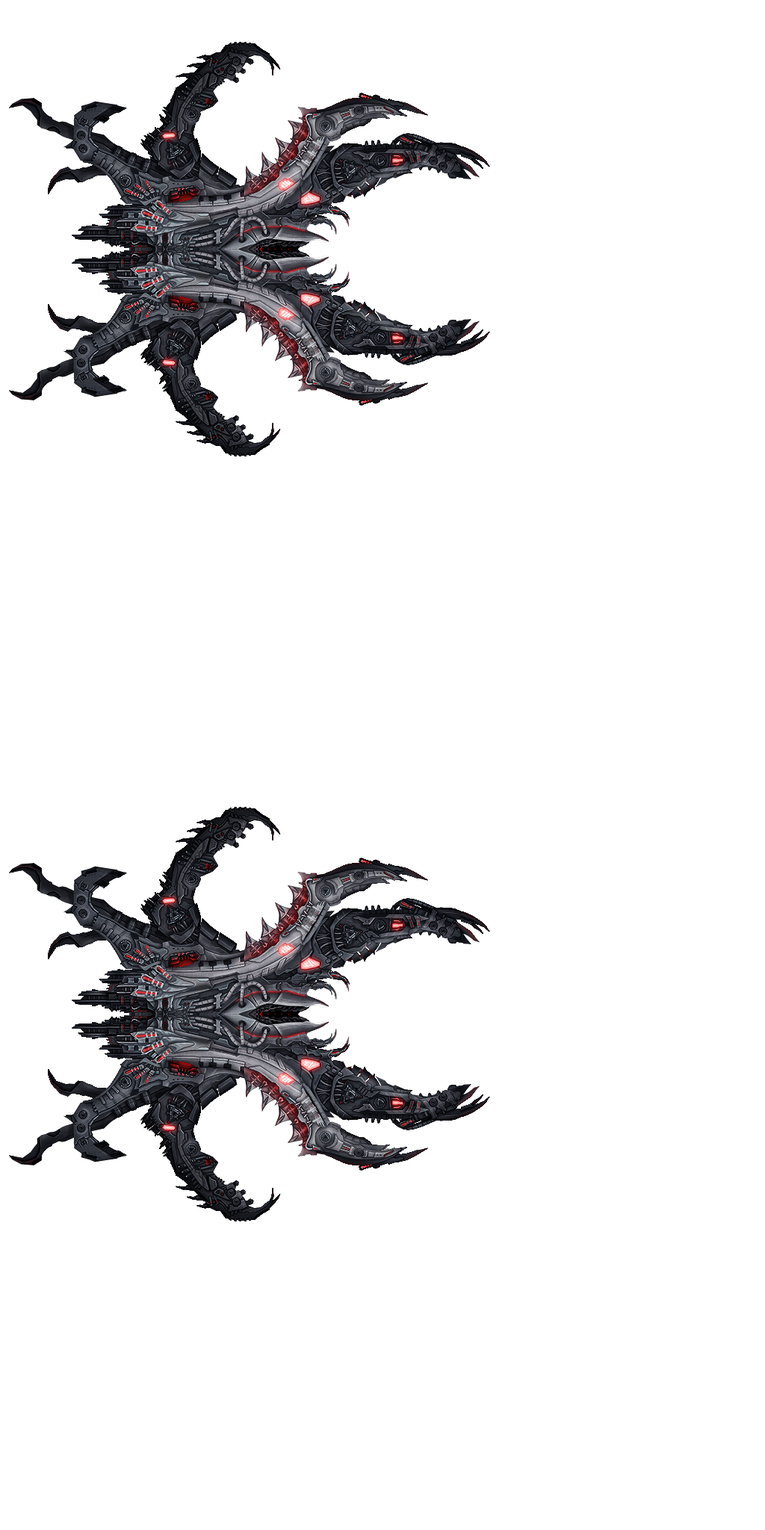
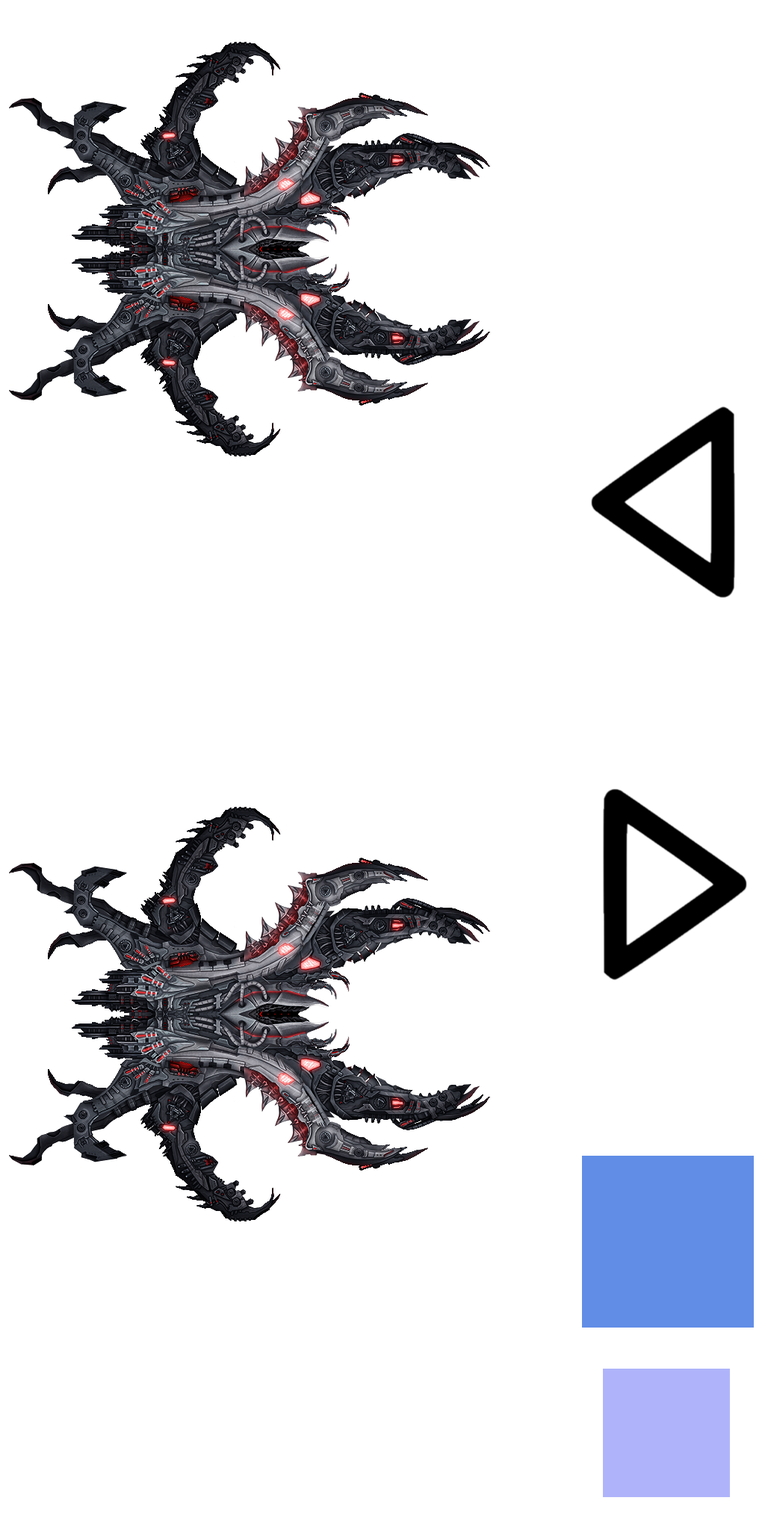
mobile update

Changed region(s): [[0.75, 0.75, 1.0, 1.0], [0.7812, 0.5, 0.9688, 0.6562], [0.7812, 0.25, 0.9688, 0.4062]]

diff --git a/Goul Shooter/scripts/c3runtime.js b/Goul Shooter/scripts/c3runtime.js
@@ -2793,6 +2793,55 @@ s)return;this._characterSet=s;this._mapChanged=true}GetCharacterSet(){return thi
 0)return this._characterWidth;else return this._spaceWidth}}};
 
 
+'use strict';{const C3=self.C3;C3.Plugins.Touch=class TouchPlugin extends C3.SDKPluginBase{constructor(opts){super(opts)}Release(){super.Release()}}};
+
+
+'use strict';{const C3=self.C3;C3.Plugins.Touch.Type=class TouchType extends C3.SDKTypeBase{constructor(objectClass){super(objectClass)}Release(){super.Release()}OnCreate(){}GetScriptInterfaceClass(){return self.ITouchObjectType}};let touchObjectType=null;function GetTouchSdkInstance(){return touchObjectType.GetSingleGlobalInstance().GetSdkInstance()}self.ITouchObjectType=class ITouchObjectType extends self.IObjectClass{constructor(objectType){super(objectType);touchObjectType=objectType;objectType.GetRuntime()._GetCommonScriptInterfaces().touch=
+this}requestPermission(type){const touchInst=GetTouchSdkInstance();if(type==="orientation")return touchInst._RequestPermission(0);else if(type==="motion")return touchInst._RequestPermission(1);else throw new Error("invalid type");}}};
+
+
+'use strict';{const C3=self.C3;const DOM_COMPONENT_ID="touch";C3.Plugins.Touch.Instance=class TouchInstance extends C3.SDKInstanceBase{constructor(inst,properties){super(inst,DOM_COMPONENT_ID);this._touches=new Map;this._useMouseInput=false;this._isMouseDown=false;this._orientCompassHeading=0;this._orientAlpha=0;this._orientBeta=0;this._orientGamma=0;this._accX=0;this._accY=0;this._accZ=0;this._accWithGX=0;this._accWithGY=0;this._accWithGZ=0;this._triggerIndex=0;this._triggerId=0;this._triggerPermission=
+0;this._curTouchX=0;this._curTouchY=0;this._getTouchIndex=0;this._permissionPromises=[];if(properties)this._useMouseInput=properties[0];this.AddDOMMessageHandler("permission-result",e=>this._OnPermissionResult(e));const rt=this.GetRuntime().Dispatcher();this._disposables=new C3.CompositeDisposable(C3.Disposable.From(rt,"pointerdown",e=>this._OnPointerDown(e.data)),C3.Disposable.From(rt,"pointermove",e=>this._OnPointerMove(e.data)),C3.Disposable.From(rt,"pointerup",e=>this._OnPointerUp(e.data,false)),
+C3.Disposable.From(rt,"pointercancel",e=>this._OnPointerUp(e.data,true)),C3.Disposable.From(rt,"deviceorientation",e=>this._OnDeviceOrientation(e.data)),C3.Disposable.From(rt,"deviceorientationabsolute",e=>this._OnDeviceOrientationAbsolute(e.data)),C3.Disposable.From(rt,"devicemotion",e=>this._OnDeviceMotion(e.data)),C3.Disposable.From(rt,"tick2",e=>this._OnTick2()))}Release(){this._touches.clear();super.Release()}_OnPointerDown(e){if(e["pointerType"]==="mouse")if(this._useMouseInput)this._isMouseDown=
+true;else return;const pointerId=e["pointerId"];if(this._touches.has(pointerId))return;const x=e["pageX"]-this._runtime.GetCanvasClientX();const y=e["pageY"]-this._runtime.GetCanvasClientY();const nowTime=e["timeStamp"];const index=this._touches.size;this._triggerIndex=index;this._triggerId=pointerId;const touchInfo=C3.New(C3.Plugins.Touch.TouchInfo);touchInfo.Init(nowTime,x,y,pointerId,index);this._touches.set(pointerId,touchInfo);this.Trigger(C3.Plugins.Touch.Cnds.OnNthTouchStart);this.Trigger(C3.Plugins.Touch.Cnds.OnTouchStart);
+this._curTouchX=x;this._curTouchY=y;this.Trigger(C3.Plugins.Touch.Cnds.OnTouchObject)}_OnPointerMove(e){if(e["pointerType"]==="mouse"&&!this._isMouseDown)return;const touchInfo=this._touches.get(e["pointerId"]);if(!touchInfo)return;const nowTime=e["timeStamp"];if(nowTime-touchInfo.GetTime()<2)return;const x=e["pageX"]-this._runtime.GetCanvasClientX();const y=e["pageY"]-this._runtime.GetCanvasClientY();touchInfo.Update(nowTime,x,y,e["width"],e["height"],e["pressure"])}_OnPointerUp(e,isCancel){if(e["pointerType"]===
+"mouse")if(this._isMouseDown)this._isMouseDown=false;else return;const nowTime=e["timeStamp"];const pointerId=e["pointerId"];const touchInfo=this._touches.get(pointerId);if(!touchInfo)return;this._triggerIndex=touchInfo.GetStartIndex();this._triggerId=touchInfo.GetId();this.Trigger(C3.Plugins.Touch.Cnds.OnNthTouchEnd);this.Trigger(C3.Plugins.Touch.Cnds.OnTouchEnd);if(!isCancel){const tap=touchInfo.ShouldTriggerTap(nowTime);if(tap==="single-tap"){this.Trigger(C3.Plugins.Touch.Cnds.OnTapGesture);this._curTouchX=
+touchInfo.GetX();this._curTouchY=touchInfo.GetY();this.Trigger(C3.Plugins.Touch.Cnds.OnTapGestureObject)}else if(tap==="double-tap"){this.Trigger(C3.Plugins.Touch.Cnds.OnDoubleTapGesture);this._curTouchX=touchInfo.GetX();this._curTouchY=touchInfo.GetY();this.Trigger(C3.Plugins.Touch.Cnds.OnDoubleTapGestureObject)}}touchInfo.Release();this._touches.delete(pointerId)}_RequestPermission(type){this._PostToDOMMaybeSync("request-permission",{"type":type});return new Promise((resolve,reject)=>{this._permissionPromises.push({type,
+resolve,reject})})}_OnPermissionResult(e){const isGranted=e["result"];const type=e["type"];this._triggerPermission=type;const toResolve=this._permissionPromises.filter(o=>o.type===type);for(const o of toResolve)o.resolve(isGranted?"granted":"denied");this._permissionPromises=this._permissionPromises.filter(o=>o.type!==type);if(isGranted){this.Trigger(C3.Plugins.Touch.Cnds.OnPermissionGranted);if(type===0)this._runtime.RequestDeviceOrientationEvent();else this._runtime.RequestDeviceMotionEvent()}else this.Trigger(C3.Plugins.Touch.Cnds.OnPermissionDenied)}_OnDeviceOrientation(e){if(typeof e["webkitCompassHeading"]===
+"number")this._orientCompassHeading=e["webkitCompassHeading"];else if(e["absolute"])this._orientCompassHeading=e["alpha"];this._orientAlpha=e["alpha"];this._orientBeta=e["beta"];this._orientGamma=e["gamma"]}_OnDeviceOrientationAbsolute(e){this._orientCompassHeading=e["alpha"]}_OnDeviceMotion(e){const acc=e["acceleration"];if(acc){this._accX=acc["x"];this._accY=acc["y"];this._accZ=acc["z"]}const withG=e["accelerationIncludingGravity"];if(withG){this._accWithGX=withG["x"];this._accWithGY=withG["y"];
+this._accWithGZ=withG["z"]}}_OnTick2(){const nowTime=performance.now();let index=0;for(const touchInfo of this._touches.values()){if(touchInfo.GetTime()<=nowTime-50)touchInfo._SetLastTime(nowTime);if(touchInfo.ShouldTriggerHold(nowTime)){this._triggerIndex=touchInfo.GetStartIndex();this._triggerId=touchInfo.GetId();this._getTouchIndex=index;this.Trigger(C3.Plugins.Touch.Cnds.OnHoldGesture);this._curTouchX=touchInfo.GetX();this._curTouchY=touchInfo.GetY();this.Trigger(C3.Plugins.Touch.Cnds.OnHoldGestureObject);
+this._getTouchIndex=0}++index}}_GetTouchByIndex(index){index=Math.floor(index);for(const touchInfo of this._touches.values()){if(index===0)return touchInfo;--index}return null}_IsClientPosOnCanvas(touchX,touchY){return touchX>=0&&touchY>=0&&touchX<this._runtime.GetCanvasCssWidth()&&touchY<this._runtime.GetCanvasCssHeight()}GetDebuggerProperties(){const prefix="plugins.touch.debugger";return[{title:prefix+".touches",properties:[...this._touches.values()].map(ti=>({name:"$"+ti.GetId(),value:ti.GetX()+
+", "+ti.GetY()}))}]}}};
+
+
+'use strict';{const C3=self.C3;const tempArr=[];C3.Plugins.Touch.Cnds={OnTouchStart(){return true},OnTouchEnd(){return true},IsInTouch(){return this._touches.size>0},OnTouchObject(objectClass){if(!objectClass)return false;if(!this._IsClientPosOnCanvas(this._curTouchX,this._curTouchY))return false;return this._runtime.GetCollisionEngine().TestAndSelectCanvasPointOverlap(objectClass,this._curTouchX,this._curTouchY,false)},IsTouchingObject(objectClass){if(!objectClass)return false;const sol=objectClass.GetCurrentSol();
+const instances=sol.GetInstances();for(const inst of instances){const wi=inst.GetWorldInfo();const layer=wi.GetLayer();for(const touchInfo of this._touches.values()){if(!this._IsClientPosOnCanvas(touchInfo.GetX(),touchInfo.GetY()))continue;const [px,py]=layer.CanvasCssToLayer(touchInfo.GetX(),touchInfo.GetY(),wi.GetTotalZElevation());if(wi.ContainsPoint(px,py)){tempArr.push(inst);break}}}if(tempArr.length){sol.SetArrayPicked(tempArr);objectClass.ApplySolToContainer();C3.clearArray(tempArr);return true}else return false},
+CompareTouchSpeed(index,cmp,s){const touchInfo=this._GetTouchByIndex(index);if(!touchInfo)return false;return C3.compare(touchInfo.GetSpeed(),cmp,s)},OrientationSupported(){return true},MotionSupported(){return true},CompareOrientation(orientation,cmp,a){this._runtime.RequestDeviceOrientationEvent();let v=0;if(orientation===0)v=this._orientAlpha;else if(orientation===1)v=this._orientBeta;else v=this._orientGamma;return C3.compare(v,cmp,a)},CompareAcceleration(a,cmp,x){this._runtime.RequestDeviceMotionEvent();
+let v=0;if(a===0)v=this._accWithGX;else if(a===1)v=this._accWithGY;else if(a===2)v=this._accWithGZ;else if(a===3)v=this._accX;else if(a===4)v=this._accY;else v=this._accZ;return C3.compare(v,cmp,x)},OnNthTouchStart(index){index=Math.floor(index);return index===this._triggerIndex},OnNthTouchEnd(index){index=Math.floor(index);return index===this._triggerIndex},HasNthTouch(index){index=Math.floor(index);return this._touches.size>=index+1},OnHoldGesture(){return true},OnTapGesture(){return true},OnDoubleTapGesture(){return true},
+OnHoldGestureObject(objectClass){if(!objectClass)return false;if(!this._IsClientPosOnCanvas(this._curTouchX,this._curTouchY))return false;return this._runtime.GetCollisionEngine().TestAndSelectCanvasPointOverlap(objectClass,this._curTouchX,this._curTouchY,false)},OnTapGestureObject(objectClass){if(!objectClass)return false;if(!this._IsClientPosOnCanvas(this._curTouchX,this._curTouchY))return false;return this._runtime.GetCollisionEngine().TestAndSelectCanvasPointOverlap(objectClass,this._curTouchX,
+this._curTouchY,false)},OnDoubleTapGestureObject(objectClass){if(!objectClass)return false;if(!this._IsClientPosOnCanvas(this._curTouchX,this._curTouchY))return false;return this._runtime.GetCollisionEngine().TestAndSelectCanvasPointOverlap(objectClass,this._curTouchX,this._curTouchY,false)},OnPermissionGranted(type){return this._triggerPermission===type},OnPermissionDenied(type){return this._triggerPermission===type}}};
+
+
+'use strict';{const C3=self.C3;C3.Plugins.Touch.Acts={RequestPermission(type){this._RequestPermission(type)}}};
+
+
+'use strict';{const C3=self.C3;C3.Plugins.Touch.Exps={TouchCount(){return this._touches.size},X(layerParam){const touchInfo=this._GetTouchByIndex(this._getTouchIndex);if(!touchInfo)return 0;return touchInfo.GetPositionForLayer(this._runtime.GetCurrentLayout(),layerParam,true)},Y(layerParam){const touchInfo=this._GetTouchByIndex(this._getTouchIndex);if(!touchInfo)return 0;return touchInfo.GetPositionForLayer(this._runtime.GetCurrentLayout(),layerParam,false)},XAt(index,layerParam){const touchInfo=
+this._GetTouchByIndex(index);if(!touchInfo)return 0;return touchInfo.GetPositionForLayer(this._runtime.GetCurrentLayout(),layerParam,true)},YAt(index,layerParam){const touchInfo=this._GetTouchByIndex(index);if(!touchInfo)return 0;return touchInfo.GetPositionForLayer(this._runtime.GetCurrentLayout(),layerParam,false)},XForID(id,layerParam){const touchInfo=this._touches.get(id);if(!touchInfo)return 0;return touchInfo.GetPositionForLayer(this._runtime.GetCurrentLayout(),layerParam,true)},YForID(id,layerParam){const touchInfo=
+this._touches.get(id);if(!touchInfo)return 0;return touchInfo.GetPositionForLayer(this._runtime.GetCurrentLayout(),layerParam,false)},AbsoluteX(){const touchInfo=this._GetTouchByIndex(0);if(touchInfo)return touchInfo.GetX();else return 0},AbsoluteY(){const touchInfo=this._GetTouchByIndex(0);if(touchInfo)return touchInfo.GetY();else return 0},AbsoluteXAt(index){const touchInfo=this._GetTouchByIndex(index);if(touchInfo)return touchInfo.GetX();else return 0},AbsoluteYAt(index){const touchInfo=this._GetTouchByIndex(index);
+if(touchInfo)return touchInfo.GetY();else return 0},AbsoluteXForID(id){const touchInfo=this._touches.get(id);if(touchInfo)return touchInfo.GetX();else return 0},AbsoluteYForID(id){const touchInfo=this._touches.get(id);if(touchInfo)return touchInfo.GetY();else return 0},SpeedAt(index){const touchInfo=this._GetTouchByIndex(index);if(touchInfo)return touchInfo.GetSpeed();else return 0},SpeedForID(id){const touchInfo=this._touches.get(id);if(touchInfo)return touchInfo.GetSpeed();else return 0},AngleAt(index){const touchInfo=
+this._GetTouchByIndex(index);if(touchInfo)return C3.toDegrees(touchInfo.GetAngle());else return 0},AngleForID(id){const touchInfo=this._touches.get(id);if(touchInfo)return C3.toDegrees(touchInfo.GetAngle());else return 0},CompassHeading(){this._runtime.RequestDeviceOrientationEvent();return this._orientCompassHeading},Alpha(){this._runtime.RequestDeviceOrientationEvent();return this._orientAlpha},Beta(){this._runtime.RequestDeviceOrientationEvent();return this._orientBeta},Gamma(){this._runtime.RequestDeviceOrientationEvent();
+return this._orientGamma},AccelerationXWithG(){this._runtime.RequestDeviceMotionEvent();return this._accWithGX},AccelerationYWithG(){this._runtime.RequestDeviceMotionEvent();return this._accWithGY},AccelerationZWithG(){this._runtime.RequestDeviceMotionEvent();return this._accWithGZ},AccelerationX(){this._runtime.RequestDeviceMotionEvent();return this._accX},AccelerationY(){this._runtime.RequestDeviceMotionEvent();return this._accY},AccelerationZ(){this._runtime.RequestDeviceMotionEvent();return this._accZ},
+TouchIndex(){return this._triggerIndex},TouchID(){return this._triggerId},WidthForID(id){const touchInfo=this._touches.get(id);if(touchInfo)return touchInfo.GetWidth();else return 0},HeightForID(id){const touchInfo=this._touches.get(id);if(touchInfo)return touchInfo.GetHeight();else return 0},PressureForID(id){const touchInfo=this._touches.get(id);if(touchInfo)return touchInfo.GetPressure();else return 0}}};
+
+
+'use strict';{const C3=self.C3;const GESTURE_HOLD_THRESHOLD=15;const GESTURE_HOLD_TIMEOUT=500;const GESTURE_TAP_TIMEOUT=333;const GESTURE_DOUBLETAP_THRESHOLD=25;let lastTapX=-1E3;let lastTapY=-1E3;let lastTapTime=-1E4;C3.Plugins.Touch.TouchInfo=class TouchInfo extends C3.DefendedBase{constructor(){super();this._pointerId=0;this._startIndex=0;this._startTime=0;this._time=0;this._lastTime=0;this._startX=0;this._startY=0;this._x=0;this._y=0;this._lastX=0;this._lastY=0;this._width=0;this._height=0;this._pressure=
+0;this._hasTriggeredHold=false;this._isTooFarForHold=false}Release(){}Init(nowTime,x,y,id,index){this._pointerId=id;this._startIndex=index;this._time=nowTime;this._lastTime=nowTime;this._startTime=nowTime;this._startX=x;this._startY=y;this._x=x;this._y=y;this._lastX=x;this._lastY=y}Update(nowTime,x,y,width,height,pressure){this._lastTime=this._time;this._time=nowTime;this._lastX=this._x;this._lastY=this._y;this._x=x;this._y=y;this._width=width;this._height=height;this._pressure=pressure;if(!this._isTooFarForHold&&
+C3.distanceTo(this._startX,this._startY,this._x,this._y)>=GESTURE_HOLD_THRESHOLD)this._isTooFarForHold=true}GetId(){return this._pointerId}GetStartIndex(){return this._startIndex}GetTime(){return this._time}_SetLastTime(t){this._lastTime=t}GetX(){return this._x}GetY(){return this._y}GetSpeed(){const dist=C3.distanceTo(this._x,this._y,this._lastX,this._lastY);const dt=(this._time-this._lastTime)/1E3;if(dt>0)return dist/dt;else return 0}GetAngle(){return C3.angleTo(this._lastX,this._lastY,this._x,this._y)}GetWidth(){return this._width}GetHeight(){return this._height}GetPressure(){return this._pressure}ShouldTriggerHold(nowTime){if(this._hasTriggeredHold)return false;
+if(nowTime-this._startTime>=GESTURE_HOLD_TIMEOUT&&!this._isTooFarForHold&&C3.distanceTo(this._startX,this._startY,this._x,this._y)<GESTURE_HOLD_THRESHOLD){this._hasTriggeredHold=true;return true}return false}ShouldTriggerTap(nowTime){if(this._hasTriggeredHold)return"";if(nowTime-this._startTime<=GESTURE_TAP_TIMEOUT&&!this._isTooFarForHold&&C3.distanceTo(this._startX,this._startY,this._x,this._y)<GESTURE_HOLD_THRESHOLD)if(nowTime-lastTapTime<=GESTURE_TAP_TIMEOUT*2&&C3.distanceTo(lastTapX,lastTapY,
+this._x,this._y)<GESTURE_DOUBLETAP_THRESHOLD){lastTapX=-1E3;lastTapY=-1E3;lastTapTime=-1E4;return"double-tap"}else{lastTapX=this._x;lastTapY=this._y;lastTapTime=nowTime;return"single-tap"}return""}GetPositionForLayer(layout,layerNameOrNumber,getx){if(typeof layerNameOrNumber==="undefined"){const layer=layout.GetLayerByIndex(0);return layer.CanvasCssToLayer_DefaultTransform(this._x,this._y)[getx?0:1]}else{const layer=layout.GetLayer(layerNameOrNumber);if(layer)return layer.CanvasCssToLayer(this._x,
+this._y)[getx?0:1];else return 0}}}};
+
+
 'use strict';{const C3=self.C3;C3.Behaviors.EightDir=class EightDirBehavior extends C3.SDKBehaviorBase{constructor(opts){super(opts)}Release(){super.Release()}}};
 
 
@@ -3004,19 +3053,27 @@ WaypointYAt(i){return this._GetWaypointYAt(i)}}};
 		C3.Plugins.Keyboard,
 		C3.Behaviors.MoveTo,
 		C3.Plugins.Spritefont2,
+		C3.Plugins.Touch,
 		C3.Plugins.System.Cnds.OnLayoutStart,
 		C3.Plugins.Sprite.Acts.SetAngle,
 		C3.Plugins.System.Exps.random,
 		C3.Plugins.Text.Acts.SetVisible,
 		C3.Plugins.System.Cnds.EveryTick,
-		C3.Plugins.Sprite.Acts.SetTowardPosition,
+		C3.Plugins.Text.Acts.SetText,
+		C3.Plugins.System.Cnds.Compare,
 		C3.Plugins.Mouse.Exps.X,
 		C3.Plugins.Mouse.Exps.Y,
-		C3.Plugins.Text.Acts.SetText,
+		C3.Plugins.Sprite.Acts.SetTowardPosition,
+		C3.Plugins.Mouse.Cnds.OnAnyClick,
+		C3.Plugins.Sprite.Acts.SetVisible,
+		C3.Plugins.Touch.Cnds.OnTapGesture,
+		C3.Plugins.Touch.Exps.X,
+		C3.Plugins.Touch.Exps.Y,
 		C3.Plugins.Keyboard.Cnds.IsKeyDown,
+		C3.Plugins.Touch.Cnds.IsTouchingObject,
 		C3.Behaviors.EightDir.Acts.SimulateControl,
-		C3.Plugins.Mouse.Cnds.OnClick,
 		C3.Plugins.System.Cnds.CompareVar,
+		C3.Plugins.Mouse.Cnds.OnClick,
 		C3.Plugins.Sprite.Acts.Spawn,
 		C3.Plugins.System.Acts.SubVar,
 		C3.Plugins.Sprite.Cnds.OnCollision,
@@ -3029,16 +3086,16 @@ WaypointYAt(i){return this._GetWaypointYAt(i)}}};
 		C3.Plugins.Sprite.Exps.X,
 		C3.Plugins.Sprite.Exps.Y,
 		C3.Plugins.System.Cnds.ForEach,
-		C3.Plugins.System.Cnds.Compare,
 		C3.Plugins.Sprite.Acts.RotateTowardPosition,
 		C3.Plugins.System.Cnds.Every,
 		C3.Plugins.System.Acts.CreateObject,
 		C3.Behaviors.Bullet.Acts.SetSpeed,
-		C3.Plugins.Keyboard.Cnds.OnKey,
 		C3.Plugins.Sprite.Exps.Count,
+		C3.Plugins.Keyboard.Cnds.OnKey,
 		C3.Plugins.System.Acts.SetVar,
 		C3.Plugins.System.Acts.GoToLayout,
-		C3.Plugins.Sprite.Acts.SetVisible
+		C3.Plugins.Touch.Cnds.OnTapGestureObject,
+		C3.Plugins.Mouse.Cnds.OnObjectClicked
 		];
 	};
 	self.C3_JsPropNameTable = [
@@ -3080,6 +3137,14 @@ WaypointYAt(i){return this._GetWaypointYAt(i)}}};
 		{Details: 0},
 		{Deatils2: 0},
 		{Sprite7: 0},
+		{Sprite8: 0},
+		{uiblock: 0},
+		{Touch: 0},
+		{Down: 0},
+		{Up: 0},
+		{RightB: 0},
+		{LeftB: 0},
+		{box: 0},
 		{AmoNum: 0},
 		{MonsterSpeed: 0},
 		{Score: 0}
@@ -3189,16 +3254,16 @@ WaypointYAt(i){return this._GetWaypointYAt(i)}}};
 			return () => f0(360);
 		},
 		p => {
-			const f0 = p._GetNode(0).GetBoundMethod();
-			return () => f0();
-		},
-		p => {
 			const v0 = p._GetNode(0).GetVar();
 			return () => ((and("Score: ", v0.GetValue()) + "\n") + "Use WASD, or arrow keys to move and click to shoot!");
 		},
 		p => {
 			const v0 = p._GetNode(0).GetVar();
 			return () => and("Amo: ", v0.GetValue());
+		},
+		p => {
+			const f0 = p._GetNode(0).GetBoundMethod();
+			return () => f0();
 		},
 		() => 0,
 		() => "Main",

diff --git a/Galactic Wars/scripts/c3runtime.js b/Galactic Wars/scripts/c3runtime.js
@@ -2718,6 +2718,55 @@ case 114:return"F3";case 115:return"F4";case 116:return"F5";case 117:return"F6";
 C3.Plugins.Keyboard.Exps={LastKeyCode(){return this._triggerWhich},StringFromKeyCode(kc){return StringFromCharCode(kc)},TypedKey(){return this._triggerTypedKey}}};
 
 
+'use strict';{const C3=self.C3;C3.Plugins.Touch=class TouchPlugin extends C3.SDKPluginBase{constructor(opts){super(opts)}Release(){super.Release()}}};
+
+
+'use strict';{const C3=self.C3;C3.Plugins.Touch.Type=class TouchType extends C3.SDKTypeBase{constructor(objectClass){super(objectClass)}Release(){super.Release()}OnCreate(){}GetScriptInterfaceClass(){return self.ITouchObjectType}};let touchObjectType=null;function GetTouchSdkInstance(){return touchObjectType.GetSingleGlobalInstance().GetSdkInstance()}self.ITouchObjectType=class ITouchObjectType extends self.IObjectClass{constructor(objectType){super(objectType);touchObjectType=objectType;objectType.GetRuntime()._GetCommonScriptInterfaces().touch=
+this}requestPermission(type){const touchInst=GetTouchSdkInstance();if(type==="orientation")return touchInst._RequestPermission(0);else if(type==="motion")return touchInst._RequestPermission(1);else throw new Error("invalid type");}}};
+
+
+'use strict';{const C3=self.C3;const DOM_COMPONENT_ID="touch";C3.Plugins.Touch.Instance=class TouchInstance extends C3.SDKInstanceBase{constructor(inst,properties){super(inst,DOM_COMPONENT_ID);this._touches=new Map;this._useMouseInput=false;this._isMouseDown=false;this._orientCompassHeading=0;this._orientAlpha=0;this._orientBeta=0;this._orientGamma=0;this._accX=0;this._accY=0;this._accZ=0;this._accWithGX=0;this._accWithGY=0;this._accWithGZ=0;this._triggerIndex=0;this._triggerId=0;this._triggerPermission=
+0;this._curTouchX=0;this._curTouchY=0;this._getTouchIndex=0;this._permissionPromises=[];if(properties)this._useMouseInput=properties[0];this.AddDOMMessageHandler("permission-result",e=>this._OnPermissionResult(e));const rt=this.GetRuntime().Dispatcher();this._disposables=new C3.CompositeDisposable(C3.Disposable.From(rt,"pointerdown",e=>this._OnPointerDown(e.data)),C3.Disposable.From(rt,"pointermove",e=>this._OnPointerMove(e.data)),C3.Disposable.From(rt,"pointerup",e=>this._OnPointerUp(e.data,false)),
+C3.Disposable.From(rt,"pointercancel",e=>this._OnPointerUp(e.data,true)),C3.Disposable.From(rt,"deviceorientation",e=>this._OnDeviceOrientation(e.data)),C3.Disposable.From(rt,"deviceorientationabsolute",e=>this._OnDeviceOrientationAbsolute(e.data)),C3.Disposable.From(rt,"devicemotion",e=>this._OnDeviceMotion(e.data)),C3.Disposable.From(rt,"tick2",e=>this._OnTick2()))}Release(){this._touches.clear();super.Release()}_OnPointerDown(e){if(e["pointerType"]==="mouse")if(this._useMouseInput)this._isMouseDown=
+true;else return;const pointerId=e["pointerId"];if(this._touches.has(pointerId))return;const x=e["pageX"]-this._runtime.GetCanvasClientX();const y=e["pageY"]-this._runtime.GetCanvasClientY();const nowTime=e["timeStamp"];const index=this._touches.size;this._triggerIndex=index;this._triggerId=pointerId;const touchInfo=C3.New(C3.Plugins.Touch.TouchInfo);touchInfo.Init(nowTime,x,y,pointerId,index);this._touches.set(pointerId,touchInfo);this.Trigger(C3.Plugins.Touch.Cnds.OnNthTouchStart);this.Trigger(C3.Plugins.Touch.Cnds.OnTouchStart);
+this._curTouchX=x;this._curTouchY=y;this.Trigger(C3.Plugins.Touch.Cnds.OnTouchObject)}_OnPointerMove(e){if(e["pointerType"]==="mouse"&&!this._isMouseDown)return;const touchInfo=this._touches.get(e["pointerId"]);if(!touchInfo)return;const nowTime=e["timeStamp"];if(nowTime-touchInfo.GetTime()<2)return;const x=e["pageX"]-this._runtime.GetCanvasClientX();const y=e["pageY"]-this._runtime.GetCanvasClientY();touchInfo.Update(nowTime,x,y,e["width"],e["height"],e["pressure"])}_OnPointerUp(e,isCancel){if(e["pointerType"]===
+"mouse")if(this._isMouseDown)this._isMouseDown=false;else return;const nowTime=e["timeStamp"];const pointerId=e["pointerId"];const touchInfo=this._touches.get(pointerId);if(!touchInfo)return;this._triggerIndex=touchInfo.GetStartIndex();this._triggerId=touchInfo.GetId();this.Trigger(C3.Plugins.Touch.Cnds.OnNthTouchEnd);this.Trigger(C3.Plugins.Touch.Cnds.OnTouchEnd);if(!isCancel){const tap=touchInfo.ShouldTriggerTap(nowTime);if(tap==="single-tap"){this.Trigger(C3.Plugins.Touch.Cnds.OnTapGesture);this._curTouchX=
+touchInfo.GetX();this._curTouchY=touchInfo.GetY();this.Trigger(C3.Plugins.Touch.Cnds.OnTapGestureObject)}else if(tap==="double-tap"){this.Trigger(C3.Plugins.Touch.Cnds.OnDoubleTapGesture);this._curTouchX=touchInfo.GetX();this._curTouchY=touchInfo.GetY();this.Trigger(C3.Plugins.Touch.Cnds.OnDoubleTapGestureObject)}}touchInfo.Release();this._touches.delete(pointerId)}_RequestPermission(type){this._PostToDOMMaybeSync("request-permission",{"type":type});return new Promise((resolve,reject)=>{this._permissionPromises.push({type,
+resolve,reject})})}_OnPermissionResult(e){const isGranted=e["result"];const type=e["type"];this._triggerPermission=type;const toResolve=this._permissionPromises.filter(o=>o.type===type);for(const o of toResolve)o.resolve(isGranted?"granted":"denied");this._permissionPromises=this._permissionPromises.filter(o=>o.type!==type);if(isGranted){this.Trigger(C3.Plugins.Touch.Cnds.OnPermissionGranted);if(type===0)this._runtime.RequestDeviceOrientationEvent();else this._runtime.RequestDeviceMotionEvent()}else this.Trigger(C3.Plugins.Touch.Cnds.OnPermissionDenied)}_OnDeviceOrientation(e){if(typeof e["webkitCompassHeading"]===
+"number")this._orientCompassHeading=e["webkitCompassHeading"];else if(e["absolute"])this._orientCompassHeading=e["alpha"];this._orientAlpha=e["alpha"];this._orientBeta=e["beta"];this._orientGamma=e["gamma"]}_OnDeviceOrientationAbsolute(e){this._orientCompassHeading=e["alpha"]}_OnDeviceMotion(e){const acc=e["acceleration"];if(acc){this._accX=acc["x"];this._accY=acc["y"];this._accZ=acc["z"]}const withG=e["accelerationIncludingGravity"];if(withG){this._accWithGX=withG["x"];this._accWithGY=withG["y"];
+this._accWithGZ=withG["z"]}}_OnTick2(){const nowTime=performance.now();let index=0;for(const touchInfo of this._touches.values()){if(touchInfo.GetTime()<=nowTime-50)touchInfo._SetLastTime(nowTime);if(touchInfo.ShouldTriggerHold(nowTime)){this._triggerIndex=touchInfo.GetStartIndex();this._triggerId=touchInfo.GetId();this._getTouchIndex=index;this.Trigger(C3.Plugins.Touch.Cnds.OnHoldGesture);this._curTouchX=touchInfo.GetX();this._curTouchY=touchInfo.GetY();this.Trigger(C3.Plugins.Touch.Cnds.OnHoldGestureObject);
+this._getTouchIndex=0}++index}}_GetTouchByIndex(index){index=Math.floor(index);for(const touchInfo of this._touches.values()){if(index===0)return touchInfo;--index}return null}_IsClientPosOnCanvas(touchX,touchY){return touchX>=0&&touchY>=0&&touchX<this._runtime.GetCanvasCssWidth()&&touchY<this._runtime.GetCanvasCssHeight()}GetDebuggerProperties(){const prefix="plugins.touch.debugger";return[{title:prefix+".touches",properties:[...this._touches.values()].map(ti=>({name:"$"+ti.GetId(),value:ti.GetX()+
+", "+ti.GetY()}))}]}}};
+
+
+'use strict';{const C3=self.C3;const tempArr=[];C3.Plugins.Touch.Cnds={OnTouchStart(){return true},OnTouchEnd(){return true},IsInTouch(){return this._touches.size>0},OnTouchObject(objectClass){if(!objectClass)return false;if(!this._IsClientPosOnCanvas(this._curTouchX,this._curTouchY))return false;return this._runtime.GetCollisionEngine().TestAndSelectCanvasPointOverlap(objectClass,this._curTouchX,this._curTouchY,false)},IsTouchingObject(objectClass){if(!objectClass)return false;const sol=objectClass.GetCurrentSol();
+const instances=sol.GetInstances();for(const inst of instances){const wi=inst.GetWorldInfo();const layer=wi.GetLayer();for(const touchInfo of this._touches.values()){if(!this._IsClientPosOnCanvas(touchInfo.GetX(),touchInfo.GetY()))continue;const [px,py]=layer.CanvasCssToLayer(touchInfo.GetX(),touchInfo.GetY(),wi.GetTotalZElevation());if(wi.ContainsPoint(px,py)){tempArr.push(inst);break}}}if(tempArr.length){sol.SetArrayPicked(tempArr);objectClass.ApplySolToContainer();C3.clearArray(tempArr);return true}else return false},
+CompareTouchSpeed(index,cmp,s){const touchInfo=this._GetTouchByIndex(index);if(!touchInfo)return false;return C3.compare(touchInfo.GetSpeed(),cmp,s)},OrientationSupported(){return true},MotionSupported(){return true},CompareOrientation(orientation,cmp,a){this._runtime.RequestDeviceOrientationEvent();let v=0;if(orientation===0)v=this._orientAlpha;else if(orientation===1)v=this._orientBeta;else v=this._orientGamma;return C3.compare(v,cmp,a)},CompareAcceleration(a,cmp,x){this._runtime.RequestDeviceMotionEvent();
+let v=0;if(a===0)v=this._accWithGX;else if(a===1)v=this._accWithGY;else if(a===2)v=this._accWithGZ;else if(a===3)v=this._accX;else if(a===4)v=this._accY;else v=this._accZ;return C3.compare(v,cmp,x)},OnNthTouchStart(index){index=Math.floor(index);return index===this._triggerIndex},OnNthTouchEnd(index){index=Math.floor(index);return index===this._triggerIndex},HasNthTouch(index){index=Math.floor(index);return this._touches.size>=index+1},OnHoldGesture(){return true},OnTapGesture(){return true},OnDoubleTapGesture(){return true},
+OnHoldGestureObject(objectClass){if(!objectClass)return false;if(!this._IsClientPosOnCanvas(this._curTouchX,this._curTouchY))return false;return this._runtime.GetCollisionEngine().TestAndSelectCanvasPointOverlap(objectClass,this._curTouchX,this._curTouchY,false)},OnTapGestureObject(objectClass){if(!objectClass)return false;if(!this._IsClientPosOnCanvas(this._curTouchX,this._curTouchY))return false;return this._runtime.GetCollisionEngine().TestAndSelectCanvasPointOverlap(objectClass,this._curTouchX,
+this._curTouchY,false)},OnDoubleTapGestureObject(objectClass){if(!objectClass)return false;if(!this._IsClientPosOnCanvas(this._curTouchX,this._curTouchY))return false;return this._runtime.GetCollisionEngine().TestAndSelectCanvasPointOverlap(objectClass,this._curTouchX,this._curTouchY,false)},OnPermissionGranted(type){return this._triggerPermission===type},OnPermissionDenied(type){return this._triggerPermission===type}}};
+
+
+'use strict';{const C3=self.C3;C3.Plugins.Touch.Acts={RequestPermission(type){this._RequestPermission(type)}}};
+
+
+'use strict';{const C3=self.C3;C3.Plugins.Touch.Exps={TouchCount(){return this._touches.size},X(layerParam){const touchInfo=this._GetTouchByIndex(this._getTouchIndex);if(!touchInfo)return 0;return touchInfo.GetPositionForLayer(this._runtime.GetCurrentLayout(),layerParam,true)},Y(layerParam){const touchInfo=this._GetTouchByIndex(this._getTouchIndex);if(!touchInfo)return 0;return touchInfo.GetPositionForLayer(this._runtime.GetCurrentLayout(),layerParam,false)},XAt(index,layerParam){const touchInfo=
+this._GetTouchByIndex(index);if(!touchInfo)return 0;return touchInfo.GetPositionForLayer(this._runtime.GetCurrentLayout(),layerParam,true)},YAt(index,layerParam){const touchInfo=this._GetTouchByIndex(index);if(!touchInfo)return 0;return touchInfo.GetPositionForLayer(this._runtime.GetCurrentLayout(),layerParam,false)},XForID(id,layerParam){const touchInfo=this._touches.get(id);if(!touchInfo)return 0;return touchInfo.GetPositionForLayer(this._runtime.GetCurrentLayout(),layerParam,true)},YForID(id,layerParam){const touchInfo=
+this._touches.get(id);if(!touchInfo)return 0;return touchInfo.GetPositionForLayer(this._runtime.GetCurrentLayout(),layerParam,false)},AbsoluteX(){const touchInfo=this._GetTouchByIndex(0);if(touchInfo)return touchInfo.GetX();else return 0},AbsoluteY(){const touchInfo=this._GetTouchByIndex(0);if(touchInfo)return touchInfo.GetY();else return 0},AbsoluteXAt(index){const touchInfo=this._GetTouchByIndex(index);if(touchInfo)return touchInfo.GetX();else return 0},AbsoluteYAt(index){const touchInfo=this._GetTouchByIndex(index);
+if(touchInfo)return touchInfo.GetY();else return 0},AbsoluteXForID(id){const touchInfo=this._touches.get(id);if(touchInfo)return touchInfo.GetX();else return 0},AbsoluteYForID(id){const touchInfo=this._touches.get(id);if(touchInfo)return touchInfo.GetY();else return 0},SpeedAt(index){const touchInfo=this._GetTouchByIndex(index);if(touchInfo)return touchInfo.GetSpeed();else return 0},SpeedForID(id){const touchInfo=this._touches.get(id);if(touchInfo)return touchInfo.GetSpeed();else return 0},AngleAt(index){const touchInfo=
+this._GetTouchByIndex(index);if(touchInfo)return C3.toDegrees(touchInfo.GetAngle());else return 0},AngleForID(id){const touchInfo=this._touches.get(id);if(touchInfo)return C3.toDegrees(touchInfo.GetAngle());else return 0},CompassHeading(){this._runtime.RequestDeviceOrientationEvent();return this._orientCompassHeading},Alpha(){this._runtime.RequestDeviceOrientationEvent();return this._orientAlpha},Beta(){this._runtime.RequestDeviceOrientationEvent();return this._orientBeta},Gamma(){this._runtime.RequestDeviceOrientationEvent();
+return this._orientGamma},AccelerationXWithG(){this._runtime.RequestDeviceMotionEvent();return this._accWithGX},AccelerationYWithG(){this._runtime.RequestDeviceMotionEvent();return this._accWithGY},AccelerationZWithG(){this._runtime.RequestDeviceMotionEvent();return this._accWithGZ},AccelerationX(){this._runtime.RequestDeviceMotionEvent();return this._accX},AccelerationY(){this._runtime.RequestDeviceMotionEvent();return this._accY},AccelerationZ(){this._runtime.RequestDeviceMotionEvent();return this._accZ},
+TouchIndex(){return this._triggerIndex},TouchID(){return this._triggerId},WidthForID(id){const touchInfo=this._touches.get(id);if(touchInfo)return touchInfo.GetWidth();else return 0},HeightForID(id){const touchInfo=this._touches.get(id);if(touchInfo)return touchInfo.GetHeight();else return 0},PressureForID(id){const touchInfo=this._touches.get(id);if(touchInfo)return touchInfo.GetPressure();else return 0}}};
+
+
+'use strict';{const C3=self.C3;const GESTURE_HOLD_THRESHOLD=15;const GESTURE_HOLD_TIMEOUT=500;const GESTURE_TAP_TIMEOUT=333;const GESTURE_DOUBLETAP_THRESHOLD=25;let lastTapX=-1E3;let lastTapY=-1E3;let lastTapTime=-1E4;C3.Plugins.Touch.TouchInfo=class TouchInfo extends C3.DefendedBase{constructor(){super();this._pointerId=0;this._startIndex=0;this._startTime=0;this._time=0;this._lastTime=0;this._startX=0;this._startY=0;this._x=0;this._y=0;this._lastX=0;this._lastY=0;this._width=0;this._height=0;this._pressure=
+0;this._hasTriggeredHold=false;this._isTooFarForHold=false}Release(){}Init(nowTime,x,y,id,index){this._pointerId=id;this._startIndex=index;this._time=nowTime;this._lastTime=nowTime;this._startTime=nowTime;this._startX=x;this._startY=y;this._x=x;this._y=y;this._lastX=x;this._lastY=y}Update(nowTime,x,y,width,height,pressure){this._lastTime=this._time;this._time=nowTime;this._lastX=this._x;this._lastY=this._y;this._x=x;this._y=y;this._width=width;this._height=height;this._pressure=pressure;if(!this._isTooFarForHold&&
+C3.distanceTo(this._startX,this._startY,this._x,this._y)>=GESTURE_HOLD_THRESHOLD)this._isTooFarForHold=true}GetId(){return this._pointerId}GetStartIndex(){return this._startIndex}GetTime(){return this._time}_SetLastTime(t){this._lastTime=t}GetX(){return this._x}GetY(){return this._y}GetSpeed(){const dist=C3.distanceTo(this._x,this._y,this._lastX,this._lastY);const dt=(this._time-this._lastTime)/1E3;if(dt>0)return dist/dt;else return 0}GetAngle(){return C3.angleTo(this._lastX,this._lastY,this._x,this._y)}GetWidth(){return this._width}GetHeight(){return this._height}GetPressure(){return this._pressure}ShouldTriggerHold(nowTime){if(this._hasTriggeredHold)return false;
+if(nowTime-this._startTime>=GESTURE_HOLD_TIMEOUT&&!this._isTooFarForHold&&C3.distanceTo(this._startX,this._startY,this._x,this._y)<GESTURE_HOLD_THRESHOLD){this._hasTriggeredHold=true;return true}return false}ShouldTriggerTap(nowTime){if(this._hasTriggeredHold)return"";if(nowTime-this._startTime<=GESTURE_TAP_TIMEOUT&&!this._isTooFarForHold&&C3.distanceTo(this._startX,this._startY,this._x,this._y)<GESTURE_HOLD_THRESHOLD)if(nowTime-lastTapTime<=GESTURE_TAP_TIMEOUT*2&&C3.distanceTo(lastTapX,lastTapY,
+this._x,this._y)<GESTURE_DOUBLETAP_THRESHOLD){lastTapX=-1E3;lastTapY=-1E3;lastTapTime=-1E4;return"double-tap"}else{lastTapX=this._x;lastTapY=this._y;lastTapTime=nowTime;return"single-tap"}return""}GetPositionForLayer(layout,layerNameOrNumber,getx){if(typeof layerNameOrNumber==="undefined"){const layer=layout.GetLayerByIndex(0);return layer.CanvasCssToLayer_DefaultTransform(this._x,this._y)[getx?0:1]}else{const layer=layout.GetLayer(layerNameOrNumber);if(layer)return layer.CanvasCssToLayer(this._x,
+this._y)[getx?0:1];else return 0}}}};
+
+
 'use strict';{const C3=self.C3;C3.Behaviors.EightDir=class EightDirBehavior extends C3.SDKBehaviorBase{constructor(opts){super(opts)}Release(){super.Release()}}};
 
 
@@ -2926,16 +2975,24 @@ s}}};
 		C3.Plugins.Text,
 		C3.Plugins.Keyboard,
 		C3.Behaviors.Turret,
+		C3.Plugins.Touch,
 		C3.Plugins.System.Cnds.OnLayoutStart,
 		C3.Plugins.Sprite.Acts.SetAngle,
 		C3.Plugins.System.Exps.random,
 		C3.Plugins.Text.Acts.SetVisible,
 		C3.Plugins.System.Cnds.EveryTick,
-		C3.Plugins.Sprite.Acts.SetTowardPosition,
+		C3.Plugins.Text.Acts.SetText,
+		C3.Plugins.System.Cnds.Compare,
 		C3.Plugins.Mouse.Exps.X,
 		C3.Plugins.Mouse.Exps.Y,
-		C3.Plugins.Text.Acts.SetText,
+		C3.Plugins.Sprite.Acts.SetTowardPosition,
+		C3.Plugins.Mouse.Cnds.OnAnyClick,
+		C3.Plugins.Sprite.Acts.SetVisible,
+		C3.Plugins.Touch.Cnds.OnTapGesture,
+		C3.Plugins.Touch.Exps.X,
+		C3.Plugins.Touch.Exps.Y,
 		C3.Plugins.Keyboard.Cnds.IsKeyDown,
+		C3.Plugins.Touch.Cnds.IsTouchingObject,
 		C3.Behaviors.EightDir.Acts.SimulateControl,
 		C3.Plugins.Mouse.Cnds.OnClick,
 		C3.Plugins.Sprite.Acts.Spawn,
@@ -2949,17 +3006,17 @@ s}}};
 		C3.Plugins.Sprite.Exps.X,
 		C3.Plugins.Sprite.Exps.Y,
 		C3.Plugins.System.Cnds.ForEach,
-		C3.Plugins.System.Cnds.Compare,
 		C3.Plugins.Sprite.Acts.RotateTowardPosition,
 		C3.Plugins.System.Cnds.Every,
 		C3.Plugins.System.Acts.CreateObject,
 		C3.Behaviors.Bullet.Acts.SetSpeed,
-		C3.Plugins.Keyboard.Cnds.OnKey,
+		C3.Behaviors.Turret.Acts.AddTarget,
 		C3.Plugins.Sprite.Exps.Count,
+		C3.Plugins.Keyboard.Cnds.OnKey,
 		C3.Plugins.System.Acts.SetVar,
 		C3.Plugins.System.Acts.GoToLayout,
-		C3.Behaviors.Turret.Acts.AddTarget,
-		C3.Plugins.Sprite.Acts.SetVisible
+		C3.Plugins.Mouse.Cnds.OnObjectClicked,
+		C3.Plugins.Touch.Cnds.OnTouchObject
 		];
 	};
 	self.C3_JsPropNameTable = [
@@ -2990,6 +3047,14 @@ s}}};
 		{Playerimg: 0},
 		{Sprite3: 0},
 		{contols: 0},
+		{Touch: 0},
+		{Text: 0},
+		{Sprite4: 0},
+		{Up: 0},
+		{box: 0},
+		{Down: 0},
+		{LeftB: 0},
+		{RightB: 0},
 		{MonsterSpeed: 0},
 		{Score: 0}
 	];
@@ -3098,15 +3163,15 @@ s}}};
 			return () => f0(360);
 		},
 		p => {
-			const f0 = p._GetNode(0).GetBoundMethod();
-			return () => f0();
-		},
-		p => {
 			const v0 = p._GetNode(0).GetVar();
 			return () => ((and("Score: ", v0.GetValue()) + "\n") + "Use arrow keys to move and click to shoot!");
 		},
-		() => "Main",
+		p => {
+			const f0 = p._GetNode(0).GetBoundMethod();
+			return () => f0();
+		},
 		() => 0,
+		() => "Main",
 		() => 1,
 		p => {
 			const n0 = p._GetNode(0);

diff --git a/Galactic Wars/scripts/main.js b/Galactic Wars/scripts/main.js
@@ -109,3 +109,6 @@ window["c3_postToMessagePort"](data)}_InvokeFunctionFromJS(name,params){return t
 
 'use strict';{if(window["C3_IsSupported"]){const enableWorker=true;window["c3_runtimeInterface"]=new self.RuntimeInterface({useWorker:enableWorker,workerMainUrl:"workermain.js",engineScripts:["scripts/c3runtime.js"],scriptFolder:"scripts/",workerDependencyScripts:[],exportType:"html5"})}};
 'use strict';{const DOM_COMPONENT_ID="mouse";const HANDLER_CLASS=class MouseDOMHandler extends self.DOMHandler{constructor(iRuntime){super(iRuntime,DOM_COMPONENT_ID);this.AddRuntimeMessageHandler("cursor",e=>this._OnChangeCursorStyle(e))}_OnChangeCursorStyle(e){document.documentElement.style.cursor=e}};self.RuntimeInterface.AddDOMHandlerClass(HANDLER_CLASS)};
+'use strict';{const DOM_COMPONENT_ID="touch";const HANDLER_CLASS=class TouchDOMHandler extends self.DOMHandler{constructor(iRuntime){super(iRuntime,DOM_COMPONENT_ID);this.AddRuntimeMessageHandler("request-permission",e=>this._OnRequestPermission(e))}async _OnRequestPermission(e){const type=e["type"];let result=true;if(type===0)result=await this._RequestOrientationPermission();else if(type===1)result=await this._RequestMotionPermission();this.PostToRuntime("permission-result",{"type":type,"result":result})}async _RequestOrientationPermission(){if(!self["DeviceOrientationEvent"]||
+!self["DeviceOrientationEvent"]["requestPermission"])return true;try{const state=await self["DeviceOrientationEvent"]["requestPermission"]();return state==="granted"}catch(err){console.warn("[Touch] Failed to request orientation permission: ",err);return false}}async _RequestMotionPermission(){if(!self["DeviceMotionEvent"]||!self["DeviceMotionEvent"]["requestPermission"])return true;try{const state=await self["DeviceMotionEvent"]["requestPermission"]();return state==="granted"}catch(err){console.warn("[Touch] Failed to request motion permission: ",
+err);return false}}};self.RuntimeInterface.AddDOMHandlerClass(HANDLER_CLASS)};

diff --git a/Goul Shooter/scripts/main.js b/Goul Shooter/scripts/main.js
@@ -109,3 +109,6 @@ window["c3_postToMessagePort"](data)}_InvokeFunctionFromJS(name,params){return t
 
 'use strict';{if(window["C3_IsSupported"]){const enableWorker=true;window["c3_runtimeInterface"]=new self.RuntimeInterface({useWorker:enableWorker,workerMainUrl:"workermain.js",engineScripts:["scripts/c3runtime.js"],scriptFolder:"scripts/",workerDependencyScripts:[],exportType:"html5"})}};
 'use strict';{const DOM_COMPONENT_ID="mouse";const HANDLER_CLASS=class MouseDOMHandler extends self.DOMHandler{constructor(iRuntime){super(iRuntime,DOM_COMPONENT_ID);this.AddRuntimeMessageHandler("cursor",e=>this._OnChangeCursorStyle(e))}_OnChangeCursorStyle(e){document.documentElement.style.cursor=e}};self.RuntimeInterface.AddDOMHandlerClass(HANDLER_CLASS)};
+'use strict';{const DOM_COMPONENT_ID="touch";const HANDLER_CLASS=class TouchDOMHandler extends self.DOMHandler{constructor(iRuntime){super(iRuntime,DOM_COMPONENT_ID);this.AddRuntimeMessageHandler("request-permission",e=>this._OnRequestPermission(e))}async _OnRequestPermission(e){const type=e["type"];let result=true;if(type===0)result=await this._RequestOrientationPermission();else if(type===1)result=await this._RequestMotionPermission();this.PostToRuntime("permission-result",{"type":type,"result":result})}async _RequestOrientationPermission(){if(!self["DeviceOrientationEvent"]||
+!self["DeviceOrientationEvent"]["requestPermission"])return true;try{const state=await self["DeviceOrientationEvent"]["requestPermission"]();return state==="granted"}catch(err){console.warn("[Touch] Failed to request orientation permission: ",err);return false}}async _RequestMotionPermission(){if(!self["DeviceMotionEvent"]||!self["DeviceMotionEvent"]["requestPermission"])return true;try{const state=await self["DeviceMotionEvent"]["requestPermission"]();return state==="granted"}catch(err){console.warn("[Touch] Failed to request motion permission: ",
+err);return false}}};self.RuntimeInterface.AddDOMHandlerClass(HANDLER_CLASS)};

diff --git a/index.html b/index.html
@@ -80,17 +80,18 @@
 			<h2>
 				Updates
 			</h2>
-			<p>		12/7: added mobile support to Blockz (new controls) WIP			
-				</br>12/7: update to the About section in the home page, and other minor home page maintenance. 
-				</br>12/2: minor formatting update to page 1
-				</br>11/30: updated and added new features to "Blockz" 
-			     </br>11/23: added a tittle screen for each game
+					12/9: Added WIP UI updates, and mobile support for Goul Shooters and Galactic Wars
+				</br> 12/7: Added mobile support to Blockz (new controls) WIP			
+				</br>12/7: Update to the About section in the home page, and other minor home page maintenance. 
+				</br>12/2: Minor formatting update to page 1
+				</br>11/30: Updated and added new features to "Blockz" 
+			     </br>11/23: Added a tittle screen for each game
 				</br>11/23: Added new wip game, "Blockz" go check it out!
-				</br>11/17: added WASD functionality to both games
-				</br>11/13: first update to Home page and Game page formatting 
+				</br>11/17: Added WASD functionality to both games
+				</br>11/13: First update to Home page and Game page formatting 
 				</br>11/12: Home and Game page updates and added "future Updates" section 
 			    </br>  11/11: Major update to "Goul Shooters"   
-				</br>  11/9: home, and game page updates 
+				</br>  11/9: Home, and game page updates 
 				
 				
 				
